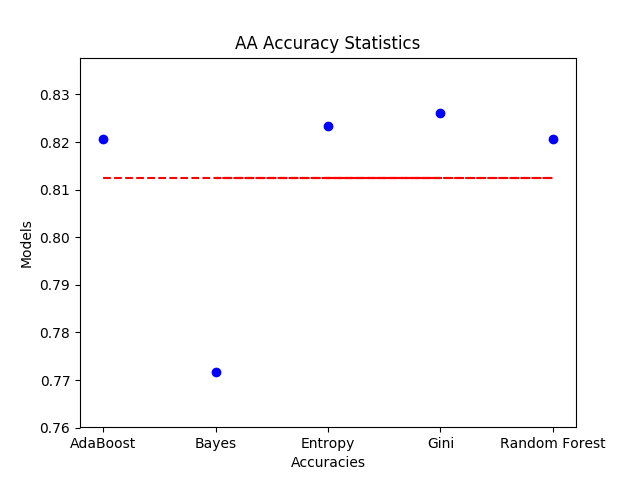
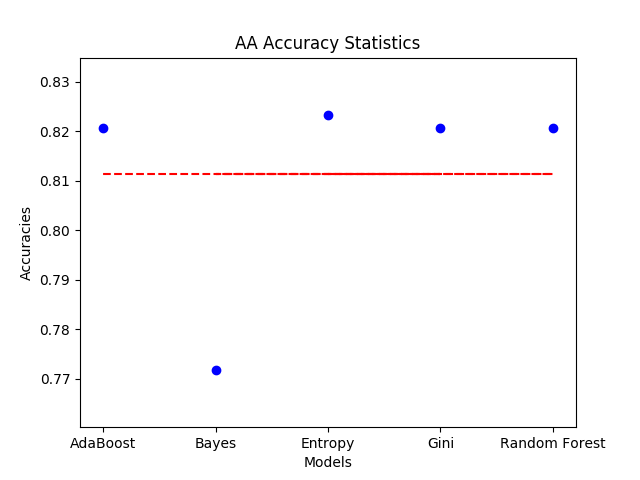
Directed all outputs to corresponding folders

diff --git a/analyze.py b/analyze.py
@@ -36,8 +36,8 @@ if __name__ == '__main__':
     dt_entropy = dt_entropy.fit(X_train, y_train)
 
     # output a PNG of the decision tree
-    dotfile = sys.argv[1] + '_entropy.dot'
-    png     = sys.argv[1] + '_entropy.png'
+    dotfile = sys.argv[1] + '_results/' + sys.argv[1] + '_entropy.dot'
+    png     = sys.argv[1] + '_results/' + sys.argv[1] + '_entropy.png'
 
     export_graphviz(dt_entropy, out_file=dotfile, feature_names=features)
     (tree, ) = pydot.graph_from_dot_file(dotfile)
@@ -52,8 +52,8 @@ if __name__ == '__main__':
     dt_gini = dt_gini.fit(X_train, y_train)
 
     # output a PNG of the decision tree
-    dotfile = sys.argv[1] + '_gini.dot'
-    png     = sys.argv[1] + '_gini.png'
+    dotfile = sys.argv[1] + '_results/' + sys.argv[1] + '_gini.dot'
+    png     = sys.argv[1] + '_results/' + sys.argv[1] + '_gini.png'
 
     export_graphviz(dt_gini, out_file=dotfile, feature_names=features)
     (tree, ) = pydot.graph_from_dot_file(dotfile)

diff --git a/graphresults.py b/graphresults.py
@@ -41,11 +41,11 @@ if __name__ == "__main__":
 	ax.scatter(keys,values, label='Accuracy', marker='o', color='b')
 	ax.plot(keys, avg, label='Average', linestyle='--', color='r')
 	ax.set_title(sys.argv[1] + " Accuracy Statistics")
-	ax.set_xlabel("Accuracies")
-	ax.set_ylabel("Models")
+	ax.set_xlabel("Models")
+	ax.set_ylabel("Accuracies")
 	
 	# Save the figure and close
-	fig.savefig(sys.argv[1] + '_accuracies.png')
+	fig.savefig(sys.argv[1] + '_results/' + sys.argv[1] + '_accuracies.png')
 	plt.close()
 
 
